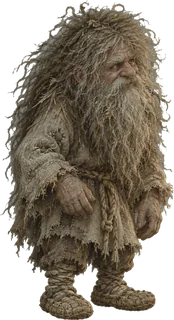
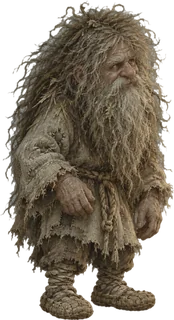
Spirits drawn like the rest of the cast
With their art present, Poludnitsa and Leshy are drawn in the shared
character layer (scene light, side light, light wrap) instead of as separate
ghost overlays. Poludnitsa's sprite is now solid and muted with only the hem
fading into the rye; her face glare and sickle glint are scene glows. Leshy
keeps his stump alignment without blur or darkening. Domovoi's sprite gets the
same painterly pass as the others and is no longer half-blacked out.

Claude-Session: https://claude.ai/code/session_01CtZJh69VWZfWKL7tGv8hTq

diff --git a/zavetye/js/render.js b/zavetye/js/render.js
@@ -344,7 +344,7 @@ function drawNpc(g, n){
   const sp = typeof spriteFor === 'function' && spriteFor(n.id, 0, false);
   if(sp && n.id === 'domovoi'){   // Домовой у печи: в тени, видны космы и янтарные глаза
     const H = 46, w = sp.width / sp.height * H, x = n.x;
-    g.save(); g.filter = SIL ? 'brightness(.5) saturate(.8)' : 'none'; g.translate(x, GY); g.scale(-1, 1); g.drawImage(sp, -w / 2, -H, w, H); g.restore(); g.filter = 'none';
+    g.save(); g.filter = SIL ? 'brightness(.86)' : 'none'; g.translate(x, GY); g.scale(-1, 1); g.drawImage(sp, -w / 2, -H, w, H); g.restore(); g.filter = 'none';
     if((T % 4.3) < 4.05){ const ex = x - (.74 - .5) * w, ey = GY - H + .168 * H; g.save(); g.globalCompositeOperation = 'lighter'; const gr = g.createRadialGradient(ex, ey, 0, ex, ey, 6); gr.addColorStop(0, 'rgba(255,190,80,.7)'); gr.addColorStop(1, 'rgba(255,190,80,0)'); g.fillStyle = gr; g.fillRect(ex - 6, ey - 6, 12, 12); g.restore(); glow(ex, ey, 26, .5); }
     return; }
   if(sp){ const H = { grisha:136, grunya:110, nina:116, varya:110, young:102, leshy:176, noon:238, domovoi:44 }[n.id] || 120; if(n.id === 'noon') glow(n.x, GY - 140, 300, 1, '255,248,220'); drawSprite(g, sp, n.x, H, n.id === 'grisha' && n.pose === 'suitcase' ? 1 : -1); return; }
@@ -441,7 +441,9 @@ function drawTile(g, kind, ph, s, camX, f, oy, cw){
    ДУХИ НА ЖИВОПИСИ — Полудница и Леший рисуются прямо в картину, за героями:
    у них свой свет, и общая подкраска персонажей их не трогает.
    ===================================================================== */
-function spiritOwn(n){ return n.id === 'noon' || n.id === 'leshy'; }
+/* без картинки духи рисуются кодом прямо в картину; с картинкой — как все герои, в общем слое со светом сцены */
+function spiritOwn(n){ return (n.id === 'noon' || n.id === 'leshy') && !IMG['s_' + n.id]; }
+function spiritAir(n){ return n.id === 'noon' && IMG.s_noon; }
 /* если есть картинка духа — рисуем её вместо фигуры из кода (рост в единицах мира, низ — у ног) */
 function spiritImg(L, key, h){ const im = IMG[key]; if(!im) return false; const w = im.width / im.height * h; L.drawImage(im, -w / 2, -h, w, h); return true; }
 const _rnd = i => { const v = Math.sin(i * 127.1 + 311.7) * 43758.5453; return v - Math.floor(v); };
@@ -579,3 +581,38 @@ function drawLeshyArt(g, x0, ph){
     g.restore(); }
 }
 function drawSpirits(g, list, ph){ for(const n of list){ if(n.id === 'noon') drawNoonArt(g, n.x); else if(n.id === 'leshy') drawLeshyArt(g, n.x, ph); } }
+
+/* ---------- духи-картинки в общем слое героев: объёмные, со светом сцены, как остальные ---------- */
+const _NOONF = { c:null, src:null };
+function noonFaded(im){   // подол Полудницы тает в ржи: заранее растворённый низ картинки
+  if(_NOONF.src === im) return _NOONF.c;
+  const c = document.createElement('canvas'); c.width = im.width; c.height = im.height; const L = c.getContext('2d');
+  L.drawImage(im, 0, 0); L.globalCompositeOperation = 'destination-out';
+  const gr = L.createLinearGradient(0, im.height * .8, 0, im.height); gr.addColorStop(0, 'rgba(0,0,0,0)'); gr.addColorStop(1, 'rgba(0,0,0,.85)');
+  L.fillStyle = gr; L.fillRect(0, im.height * .8, im.width, im.height * .2); _NOONF.c = c; _NOONF.src = im; return c;
+}
+const NOON_H = 216, NOON_BASE = GY - 56;
+function noonX(x0){ return x0 + Math.sin(T * .7) * 3; }
+/* воздух вокруг Полудницы: марево и тёплое сияние на картине — до героев */
+function drawNoonAir(g, x0){
+  const x = noonX(x0), base = NOON_BASE, H = NOON_H;
+  heatHaze(g, x - 110, base - H - 40, 220, H + 70, 2.4);
+  g.save(); g.globalCompositeOperation = 'screen';
+  const gr = g.createRadialGradient(x, base - H * .75, 4, x, base - H * .6, 140);
+  gr.addColorStop(0, 'rgba(255,244,210,.22)'); gr.addColorStop(1, 'rgba(255,236,190,0)');
+  g.fillStyle = gr; g.fillRect(x - 150, base - H - 100, 300, H + 140); g.restore();
+}
+function drawNoonSprite(g, x0){
+  const im = IMG.s_noon; if(!im) return; const x = noonX(x0), h = NOON_H, w = im.width / im.height * h;
+  g.save(); g.translate(x, NOON_BASE); g.scale(-1, 1); g.drawImage(noonFaded(im), -w / 2, -h, w, h); g.restore();
+  glow(x - 3, NOON_BASE - h + .07 * h, 26, 1.2, '255,248,225');   // на месте лица — свет
+  // блик пробегает по лезвию серпа
+  const ga = Math.PI + ((T * .5) % 1.8) * Math.PI * .7;
+  if(ga < Math.PI * 2.28) glow(x + 22 - Math.cos(ga) * 12, NOON_BASE - h + 14 + Math.sin(ga) * 12, 9, 1.4, '255,255,255');
+}
+/* Леший на пне у ельника: пень картинки совмещён с пнём на картине поля */
+function drawLeshySprite(g, x0){
+  const im = IMG.s_leshy; if(!im) return; const h = 196, w = im.width / im.height * h, gy = 348, cx = x0 + 2 - w * .3, br = Math.sin(T * 1.1) * .6;
+  g.save(); g.translate(cx, gy); g.scale(-1, 1 + br / h); g.drawImage(im, -w / 2, -h, w, h); g.restore();
+  if((T % 5.7) < 5.5) glow(cx - (.636 - .5) * w, gy - h + .105 * h, 8, .6, '190,240,130');
+}

diff --git a/zavetye/js/draw.js b/zavetye/js/draw.js
@@ -296,6 +296,7 @@ function drawArtFrame(v, camX, anna, P, ph){
   // духи — часть картины: стоят глубже героев и светятся своим светом
   const spirits = npcsFor(v).filter(spiritOwn).map(n => ({ ...n, x:rx(n.x) }));
   if(spirits.length){ drawSpirits(g, spirits, ph); g.setTransform(s, 0, 0, s, -camX * s, oy); }
+  for(const n of npcsFor(v)) if(spiritAir(n)){ drawNoonAir(g, rx(n.x)); g.setTransform(s, 0, 0, s, -camX * s, oy); }
   // герои рисуются на отдельный слой и подкрашиваются светом сцены (огонь, туман, закат)
   const tint = LOWQ.off ? null : charTint(v.strip, ph), lc = tint ? charLayer(cw, ch) : null;
   if(anna && tint) sampleScene(g, (rx(anna.x) - camX) * s, oy + (GY - 124 * k) * s, 124 * k * s, v.strip + ph);
@@ -304,7 +305,9 @@ function drawArtFrame(v, camX, anna, P, ph){
   try{
     drawFx(g);
     const at = x => { g.setTransform(s * k, 0, 0, s * k, (x - camX) * s - x * s * k, oy + GY * s * (1 - k)); };
-    for(const n of npcsFor(v)){ if(spiritOwn(n)) continue; const m = { ...n, x:rx(n.x) }; at(m.x); if(n.id === 'young' && v.strip === 'forestroad' && artParts('forestroad', 0)){ g.translate(m.x, GY); g.scale(.8, .8); g.translate(-m.x, -GY - 100); } if(n.id === 'varya' && !IMG.s_varya){ figure(g, m.x, LOOKS.varya, { face:1 }); continue; } drawNpc(g, m); }
+    for(const n of npcsFor(v)){ if(spiritOwn(n)) continue; const m = { ...n, x:rx(n.x) };
+      if(n.id === 'noon' || n.id === 'leshy'){ const sv = SIL; SIL = null; g.setTransform(s, 0, 0, s, -camX * s, oy); (n.id === 'noon' ? drawNoonSprite : drawLeshySprite)(g, m.x); SIL = sv; continue; }   // духи стоят в глубине картины, без масштаба переднего плана
+      at(m.x); if(n.id === 'young' && v.strip === 'forestroad' && artParts('forestroad', 0)){ g.translate(m.x, GY); g.scale(.8, .8); g.translate(-m.x, -GY - 100); } if(n.id === 'varya' && !IMG.s_varya){ figure(g, m.x, LOOKS.varya, { face:1 }); continue; } drawNpc(g, m); }
     if(v.strip === 'road'){ const sx = rx(spot('road', 'Бетонная плита', 1150)) - 60;
       if(v.flags.busstop){ at(sx); busStop(g, sx + 6, 'new'); } else if(v.flags.rustystop){ at(sx); busStop(g, sx + 6, 'rust'); } }
     if(anna){ at(rx(anna.x)); annaDraw(g, rx(anna.x), anna.dir, anna.move, anna.ph); }
